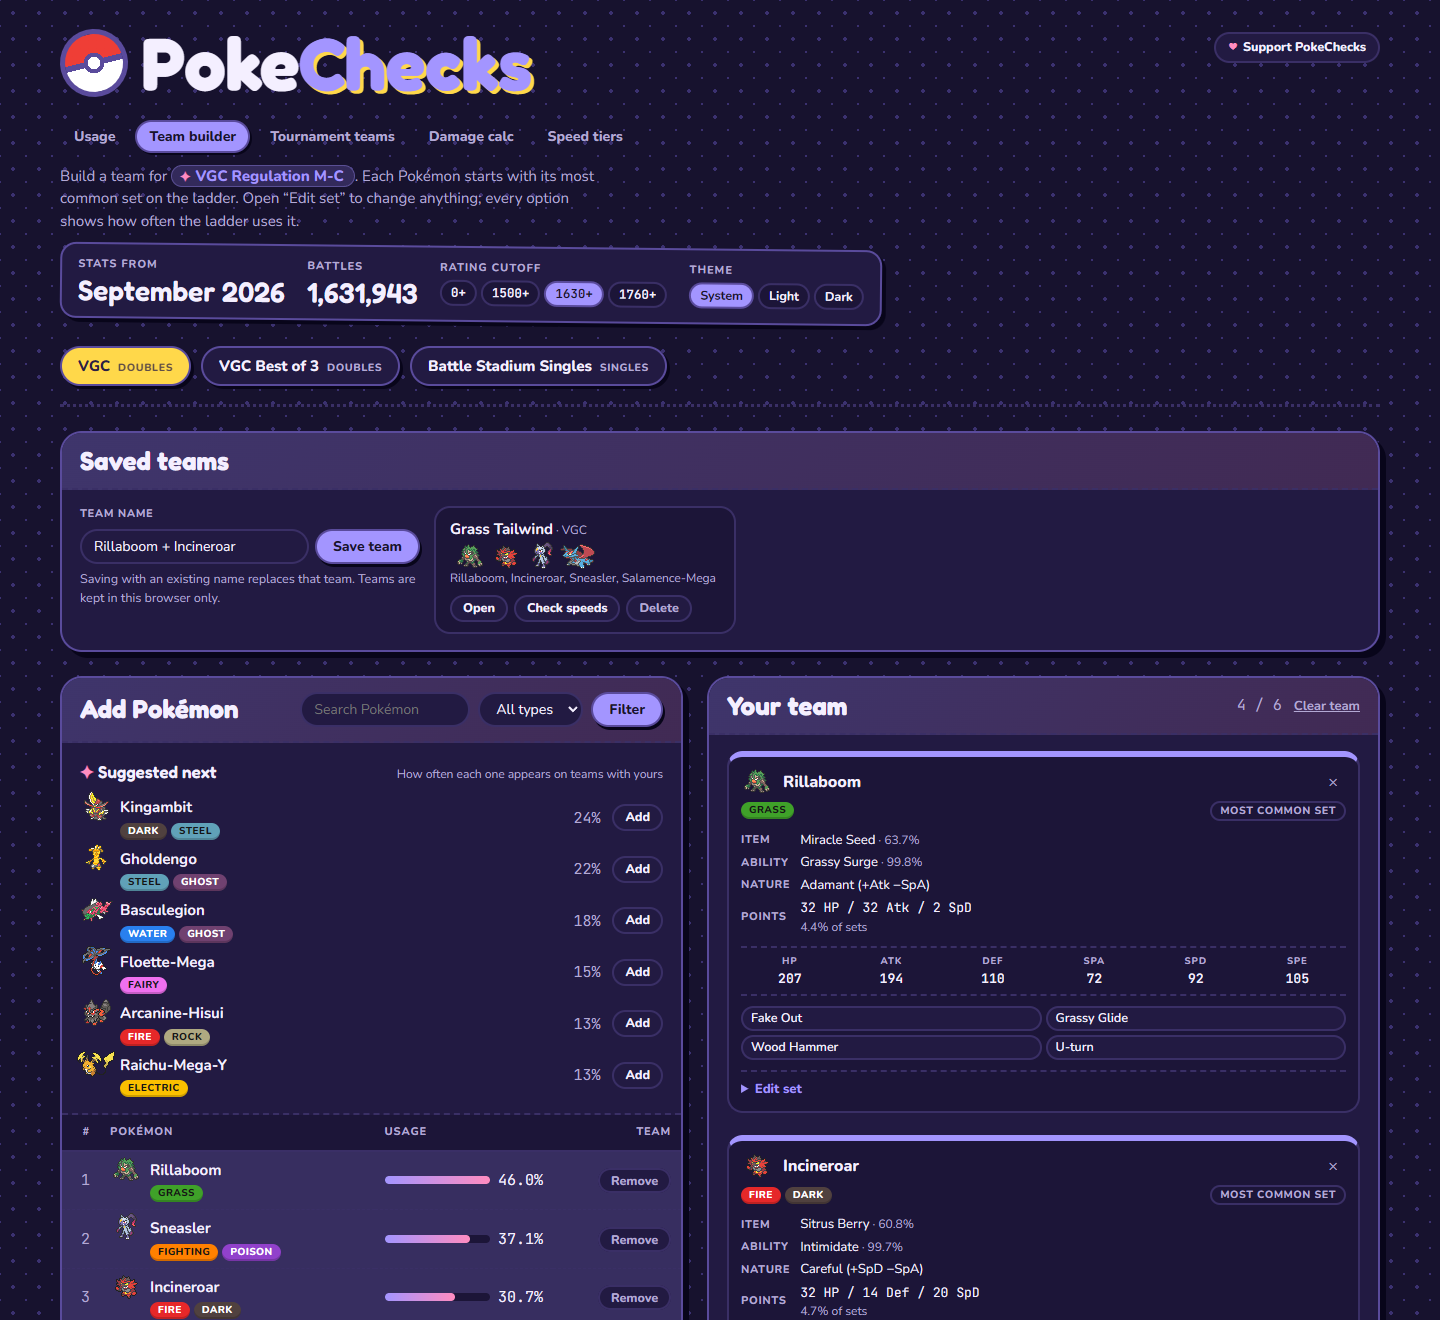
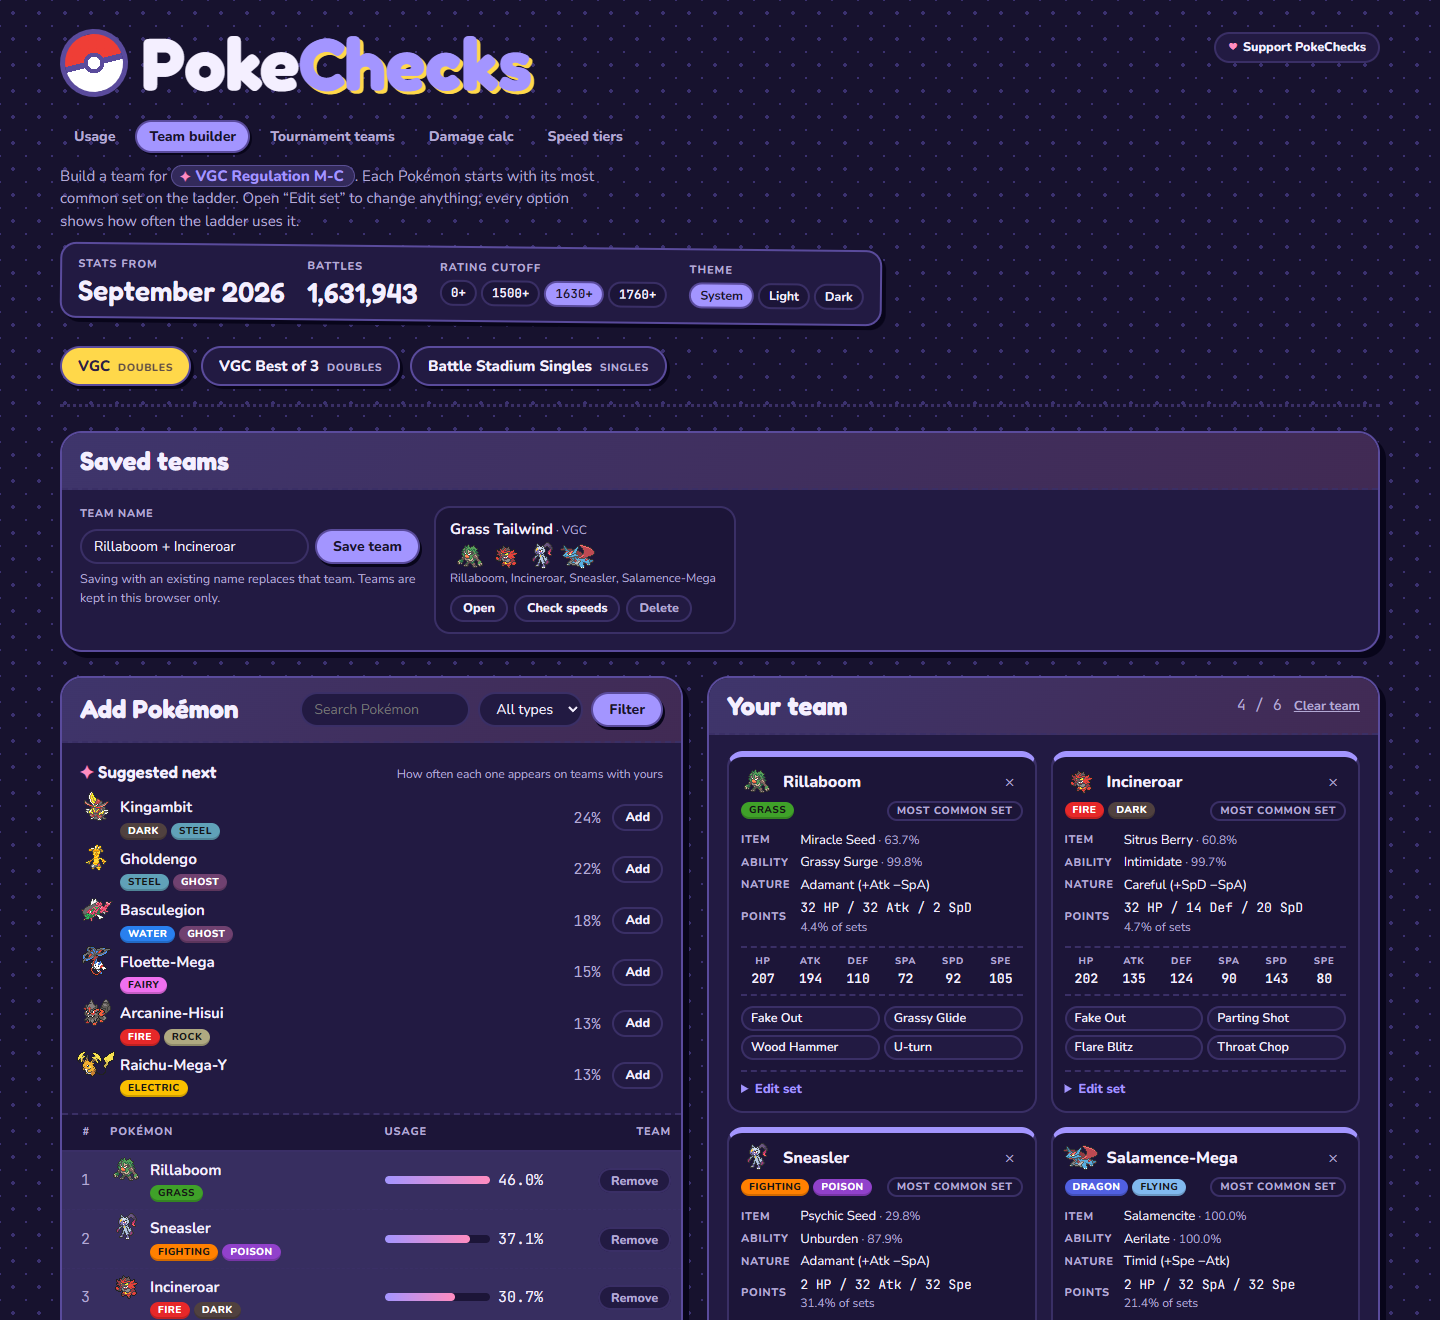
Keep the team builder's member grid at two columns
The tournament team grid reused the builder's .team-grid class name, and
its wider minimum card size put the builder's members in one column. The
tournament grid is now .tt-grid.

Changed region(s): [[0.5, 0.5591, 0.9375, 1.0]]

diff --git a/assets/app.css b/assets/app.css
@@ -532,7 +532,7 @@ label.check input { width: auto; margin: 0; accent-color: var(--accent); }
 .tie-tag { border-color: var(--down); color: var(--down); }
 
 /* Meta teams */
-.team-grid { display: grid; grid-template-columns: repeat(auto-fill, minmax(min(100%, 320px), 1fr)); gap: 22px; align-items: start; }
+.tt-grid { display: grid; grid-template-columns: repeat(auto-fill, minmax(min(100%, 320px), 1fr)); gap: 22px; align-items: start; }
 .team-card { padding: 18px; display: flex; flex-direction: column; gap: 14px; transition: transform .25s var(--bounce), box-shadow .25s var(--bounce); }
 .team-card:hover { transform: translate(-2px, -3px) rotate(-.4deg); box-shadow: 8px 9px 0 var(--drop); }
 .team-card-head { display: flex; flex-direction: column; gap: 8px; }

diff --git a/src/tournament_view.rs b/src/tournament_view.rs
@@ -410,7 +410,7 @@ fn team_list(
                 a href=(Filter::default().with(|_| {}).href(vs)) { "Clear filters" }
             }
         } @else {
-            div.team-grid {
+            div.tt-grid {
                 @for row in shown { (entry_card(row, meta, dex, vs)) }
             }
             @if matching.len() > shown.len() {
